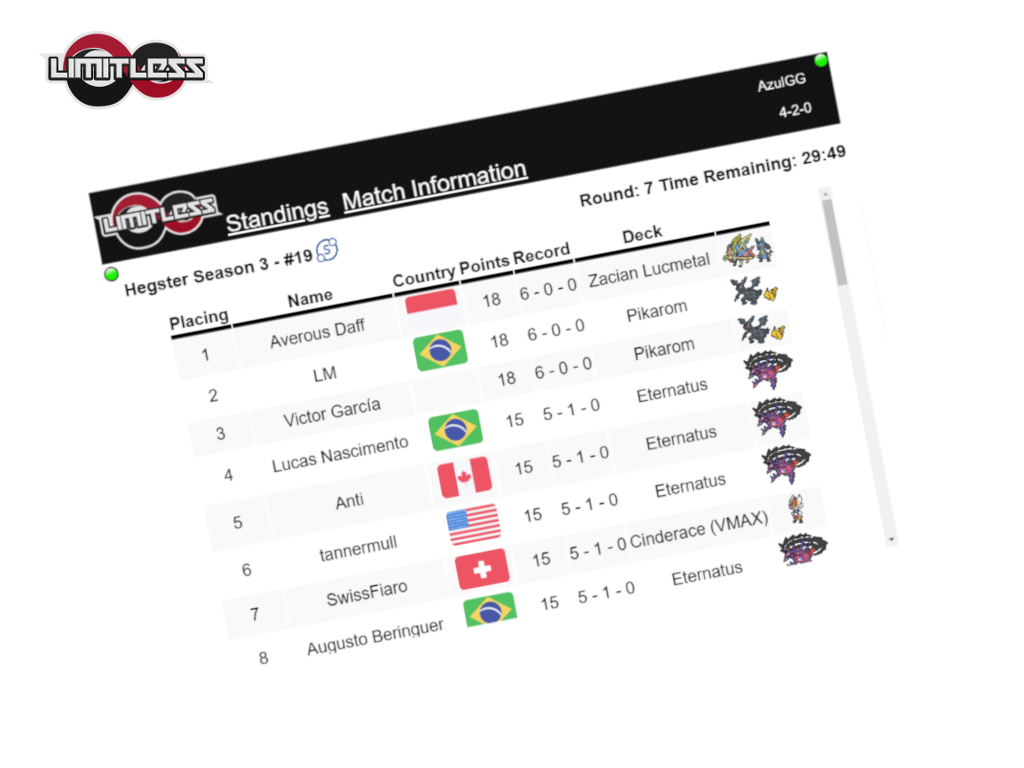
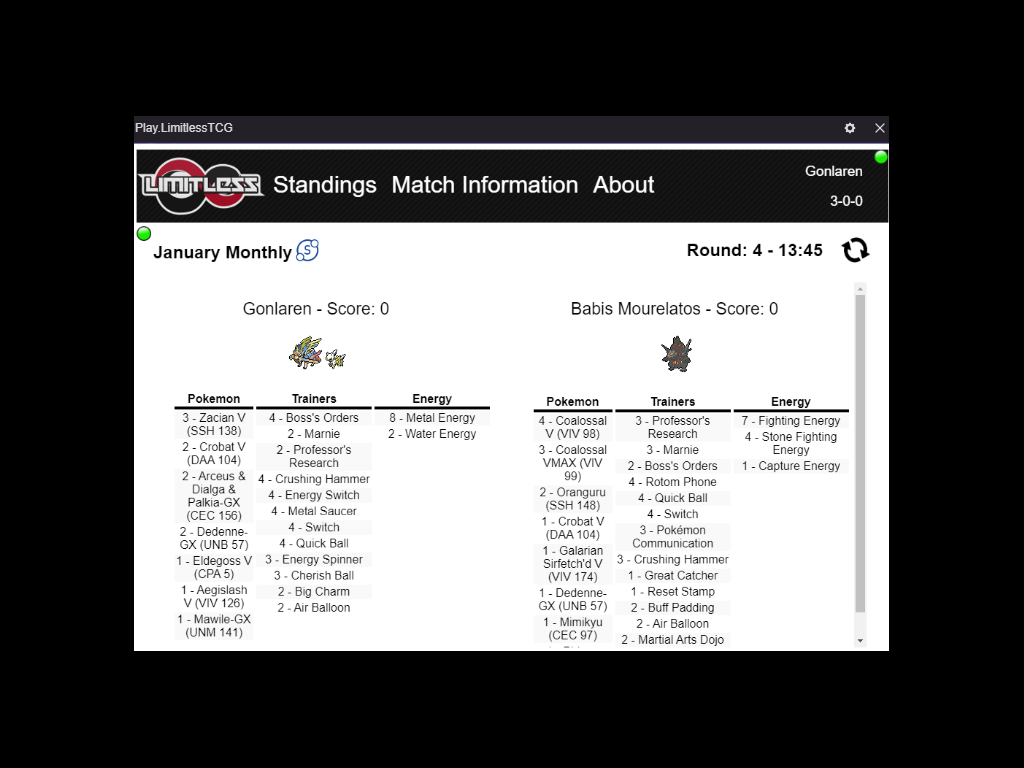
Some stuff added based on what Robin asked for

diff --git a/front-end/viewer.js b/front-end/viewer.js
@@ -71,12 +71,6 @@ function EventHandlers() {
 }
 
 function configureExtension() {  
-  document.getElementById("aboutPage").style.display = "none";  
-  document.getElementById("currentStandings").style.display = "none";
-  document.getElementById("currentMatchInformation").style.display = "";
-  document.getElementById("droppedout").style.display = "none";    
-  document.getElementById("nostandings").style.display = "none";   
-  document.getElementById("nomatches").style.display = "none"; 
   $.ajax({
     type: "GET",
     url: "https://ptcg-api.herokuapp.com/playlimitless/values/"+channelId,
@@ -305,7 +299,7 @@ var timerFunction = function() {
     if (timeleft <= 0) {
       clearInterval(timerFunction);    
       document.getElementById("roundTimer").textContent = "ROUND OVER"
-      updateInformation()
+      //updateInformation() - Robin didn't want this
     }
   }
   
@@ -320,53 +314,48 @@ var updateInformation = function() {
   
   $.ajax(settings).done(function (response) {
     
-    var currentRound = tournamentObject.Round
-    if(currentRound != response.tournament.round)
+    tournamentObject.Round = response.tournament.round
+    tournamentObject.Ongoing = response.tournament.ongoing
+    if(response.tournament.roundEnd != null)
     {
-      tournamentObject.Round = response.tournament.round
-      tournamentObject.Ongoing = response.tournament.ongoing
-      if(response.tournament.roundEnd != null)
-      {
-        tournamentObject.RoundEnd = new Date(response.tournament.roundEnd)
-      }
-      if(response.match != null && typeof response.match.opponent != 'undefined')
-      {
-          if(typeof response.match.opponent.deck != 'undefined')
-          {
-            decklistObject = new Decklist(response.match.opponent.decklist.pokemon, response.match.opponent.decklist.trainer, response.match.opponent.decklist.energy)
-            opponentObject = new Player(response.match.opponent.name, response.match.opponent.deck.name, response.match.opponent.deck.icons, decklistObject)
-          }
-          else
-          {
-            opponentObject = new Player(response.match.opponent.name,undefined,undefined,undefined)
-          }
-          
-          matchObject = new Match(response.match.completed, response.match.playerScore, response.match.oppScore)
-        
-      }
-      else
-      {
-        matchObject = undefined
-      }
-      
-      playerObject.Record = response.player.record.wins + "-" + response.player.record.losses + "-" + response.player.record.ties
-      playerObject.Active = response.player.active
-      updatePlayerInformation()
-
-      if(response.tournament.roundEnd != null)
-      {
-        tournamentObject.RoundEnd = new Date(response.tournament.roundEnd)
-        setInterval(timerFunction, 1100)
-      }
-      else
-      {        
-        document.getElementById("roundTimer").textContent = "Round " + tournamentObject.Round
-      }
-      clearInterval(updateInformation)
-      setInterval(updateInformation, 30000)
-      getStandings()
-      getMatchInformation()
+      tournamentObject.RoundEnd = new Date(response.tournament.roundEnd)
     }
+    if(response.match != null && typeof response.match.opponent != 'undefined')
+    {
+        if(typeof response.match.opponent.deck != 'undefined')
+        {
+          decklistObject = new Decklist(response.match.opponent.decklist.pokemon, response.match.opponent.decklist.trainer, response.match.opponent.decklist.energy)
+          opponentObject = new Player(response.match.opponent.name, response.match.opponent.deck.name, response.match.opponent.deck.icons, decklistObject)
+        }
+        else
+        {
+          opponentObject = new Player(response.match.opponent.name,undefined,undefined,undefined)
+        }
+        
+        matchObject = new Match(response.match.completed, response.match.playerScore, response.match.oppScore)
+      
+    }
+    else
+    {
+      matchObject = undefined
+    }
+    
+    playerObject.Record = response.player.record.wins + "-" + response.player.record.losses + "-" + response.player.record.ties
+    playerObject.Active = response.player.active
+    updatePlayerInformation()
+
+    if(response.tournament.roundEnd != null)
+    {
+      tournamentObject.RoundEnd = new Date(response.tournament.roundEnd)
+      clearInterval(timerFunction)
+      setInterval(timerFunction, 1100)
+    }
+    else
+    {        
+      document.getElementById("roundTimer").textContent = "Round " + tournamentObject.Round
+    }
+    getStandings()
+    getMatchInformation()
   });
 }
 
@@ -374,6 +363,7 @@ function openMatchInformation()
 {  
   if(channelHasTournament)
   {
+    updateInformation()
     if(!playerObject.Active)
     {
       document.getElementById("currentStandings").style.display = "none";
@@ -412,8 +402,8 @@ function getMatchInformation()
 
   if(typeof matchObject != 'undefined' && matchObject != "")
   {
-    document.getElementById("playersMatchUsername").textContent = playerObject.Name
-    document.getElementById("opponentsMatchUsername").textContent = opponentObject.Name
+    document.getElementById("playersMatchUsername").textContent = playerObject.Name + " - Score: " + matchObject.PlayerScore
+    document.getElementById("opponentsMatchUsername").textContent = opponentObject.Name + " - Score: " + matchObject.OppScore
 
     if(typeof playerObject.Decklist != 'undefined')
     {
@@ -464,26 +454,44 @@ function getMatchInformation()
       createDecklistTable(opponentObject.Decklist.Energy, "opponentsEnergy", "Energy")
       
     }
+
+    if(document.getElementById("droppedout").getAttribute("style")==null ||
+      document.getElementById("nomatches").getAttribute("style")==null)
+      {
+        document.getElementById("currentStandings").style.display = "none";
+        document.getElementById("currentMatchInformation").style.display = ""; 
+        document.getElementById("nostandings").style.display = "none";   
+        document.getElementById("droppedout").style.display = "none";     
+        document.getElementById("nomatches").style.display = "none";  
+        document.getElementById("aboutPage").style.display = "none";  
+      }
+
   }
   else
   {
-    if(playerObject.Active)
-    {
-    document.getElementById("currentStandings").style.display = "none";
-    document.getElementById("currentMatchInformation").style.display = "none"; 
-    document.getElementById("nostandings").style.display = "none";   
-    document.getElementById("droppedout").style.display = "none";     
-    document.getElementById("nomatches").style.display = "";  
-    }
-    else
-    {
-      document.getElementById("currentStandings").style.display = "none";
-      document.getElementById("currentMatchInformation").style.display = "none"; 
-      document.getElementById("nostandings").style.display = "none";   
-      document.getElementById("droppedout").style.display = "";     
-      document.getElementById("nomatches").style.display = "none";  
-
-    }
+    if(document.getElementById("currentMatchInformation").getAttribute("style")==null ||
+      document.getElementById("droppedout").getAttribute("style")==null ||
+      document.getElementById("nomatches").getAttribute("style")==null)
+      {
+        if(playerObject.Active)
+        {
+          document.getElementById("currentStandings").style.display = "none";
+          document.getElementById("currentMatchInformation").style.display = "none"; 
+          document.getElementById("nostandings").style.display = "none";   
+          document.getElementById("droppedout").style.display = "none";     
+          document.getElementById("nomatches").style.display = "";  
+          document.getElementById("aboutPage").style.display = "none";  
+        }
+        else
+        {
+          document.getElementById("currentStandings").style.display = "none";
+          document.getElementById("currentMatchInformation").style.display = "none"; 
+          document.getElementById("nostandings").style.display = "none";   
+          document.getElementById("droppedout").style.display = "";     
+          document.getElementById("nomatches").style.display = "none";  
+          document.getElementById("aboutPage").style.display = "none";  
+        }
+      }
 
   }
 }
@@ -503,8 +511,16 @@ function createDecklistTable(pokemon, tableName, title)
   }
   
   for (let element of pokemon) {
+    let text = document.createTextNode("")
     let row = table.insertRow();
-    let text = document.createTextNode(element.count+" - "+element.name+" ("+element.set+" "+element.number+")")
+    if(title == "Pokemon")
+    {
+       text = document.createTextNode(element.count+" - "+element.name+" ("+element.set+" "+element.number+")")
+    }
+    else
+    {
+      text = document.createTextNode(element.count+" - "+element.name)
+    }
     let cell = row.insertCell();
     cell.appendChild(text);
   }

diff --git a/front-end/video_component.html b/front-end/video_component.html
@@ -7,7 +7,7 @@
 <body style="font-family: 'Helvetica Neue', Helvetica, Arial, sans-serif; background-color: white; font-size: larger;">
     <script src="https://extension-files.twitch.tv/helper/v1/twitch-ext.min.js"></script>
       
-    <img src="images/limitless.png" id="manualRefresh" style="float: left; padding-top: 10px;">
+    <img src="images/limitless.png" style="float: left; padding-top: 10px; padding-right: 10px;">
     <div id="headerDiv">
         <div>
             <a href="#" id="standingsLink" class="navLink">Standings</a>
@@ -34,7 +34,11 @@
                     <td><img id="format"/></img></td>
                 </tr>
             </table>
+            <div>
+                <img id="manualRefresh" title="Refresh" style="width: 90px; height: 75px; float: right;" src="images/refresh.png"/>
             <p id="roundTimer"></p>
+            </div>
+            
         </div>
     </div>
     <div id="content">
@@ -81,16 +85,17 @@
             <img src="images/dropped-out-stamp.png" style="vertical-align: center;"/>
         </div>
         <div id="aboutPage" style="display: none">
-            <h3>Play.Limitless Twitch Extension</h3>
-            <p>This extension was created by Dillonzer with a huge shout-out to Robin and the Limitless TCG team for creating Play.Limitless and allowing myself to access the data.</p>
+            <h3>Play.LimitlessTCG Twitch Extension</h3>
+            <p>This extension was created by Dillonzer with a huge shout-out to Robin and the LimitlessTCG team for creating Play.LimitlessTCG and allowing myself to access the data.</p>
             <h4>How to Use</h4>
             <p>The extension is hopefully self explanatory but there are some hidden features.</p>
             <ul style="text-align:left">
-                <li>If the streamer changes the tournament on their end, you can click the Limitless Logo in the top left to refresh the page.</li>
+                <li>The data currently does not auto-refresh due to wanting to limit loads on the Server. To refresh, please click the little refresh button near the Round Timer.</li>
+                <li>The data will also refresh everytime you go to a new area of the Extension (ie. Clicking on Standings / Match Information)</li>
                 <li>The little icon near the Streamer Name indicates if the streamer is still playing in this tournament of if they have dropped.</li>
                 <li>The little icon near the Tournament Name indicates if the tournament is currently ongoing or not.</li>
             </ul>
-            <p>Thanks for using the extension and for using Play.Limitless!</p>            
+            <p>Thanks for using the extension and for using Play.LimitlessTCG!</p>            
             <img src="images/limitless.png"/>
         </div>
     </div>

diff --git a/front-end/viewer.css b/front-end/viewer.css
@@ -1,14 +1,18 @@
 #headerDiv {
     height: 100px;
-    background-image: url("https://play.limitlesstcg.com/img/header-background.png")
+    background-image: url("https://play.limitlesstcg.com/img/header-background.png");    
+}
+
+a {
+  text-decoration: none; 
 }
 
 .navLink {
   font-size: xx-large;
   color: white;
   float: left;
-  padding-top: 60px;
   padding-right: 10px;
+  padding-top: 30px;
 }
 
 #tournamentName {
